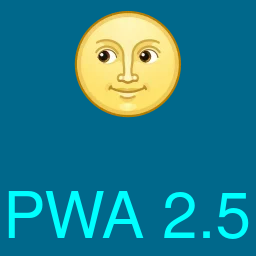
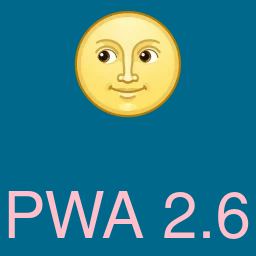
ver. 2.6

Changed region(s): [[0.0312, 0.7188, 0.5625, 0.9375], [0.625, 0.75, 0.9688, 0.9375]]

diff --git a/app.html b/app.html
@@ -6,6 +6,6 @@
     <link rel="manifest" href="manifest.json" />
   </head>
   <body style="background: deepskyblue;">
-    <p>App page ver. 2.5</p>
+    <p>App page ver. 2.6</p>
   </body>
 </html>
